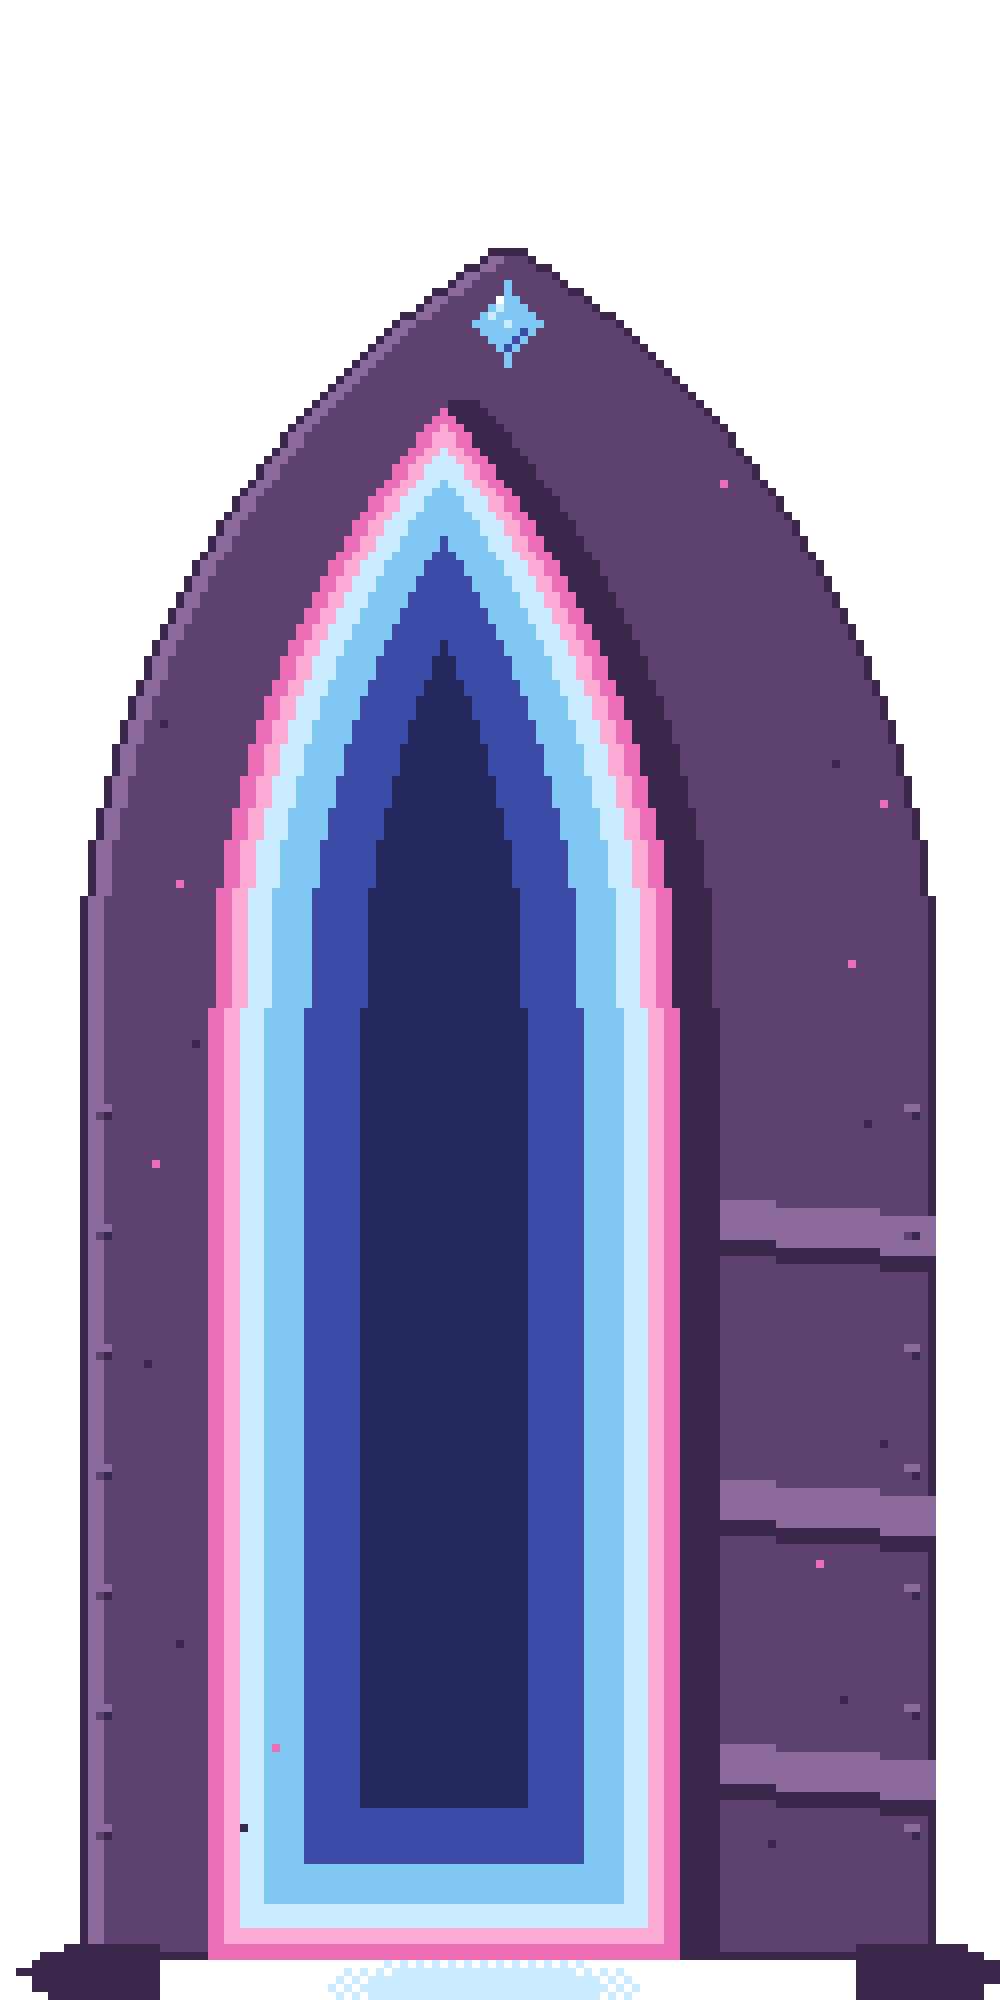
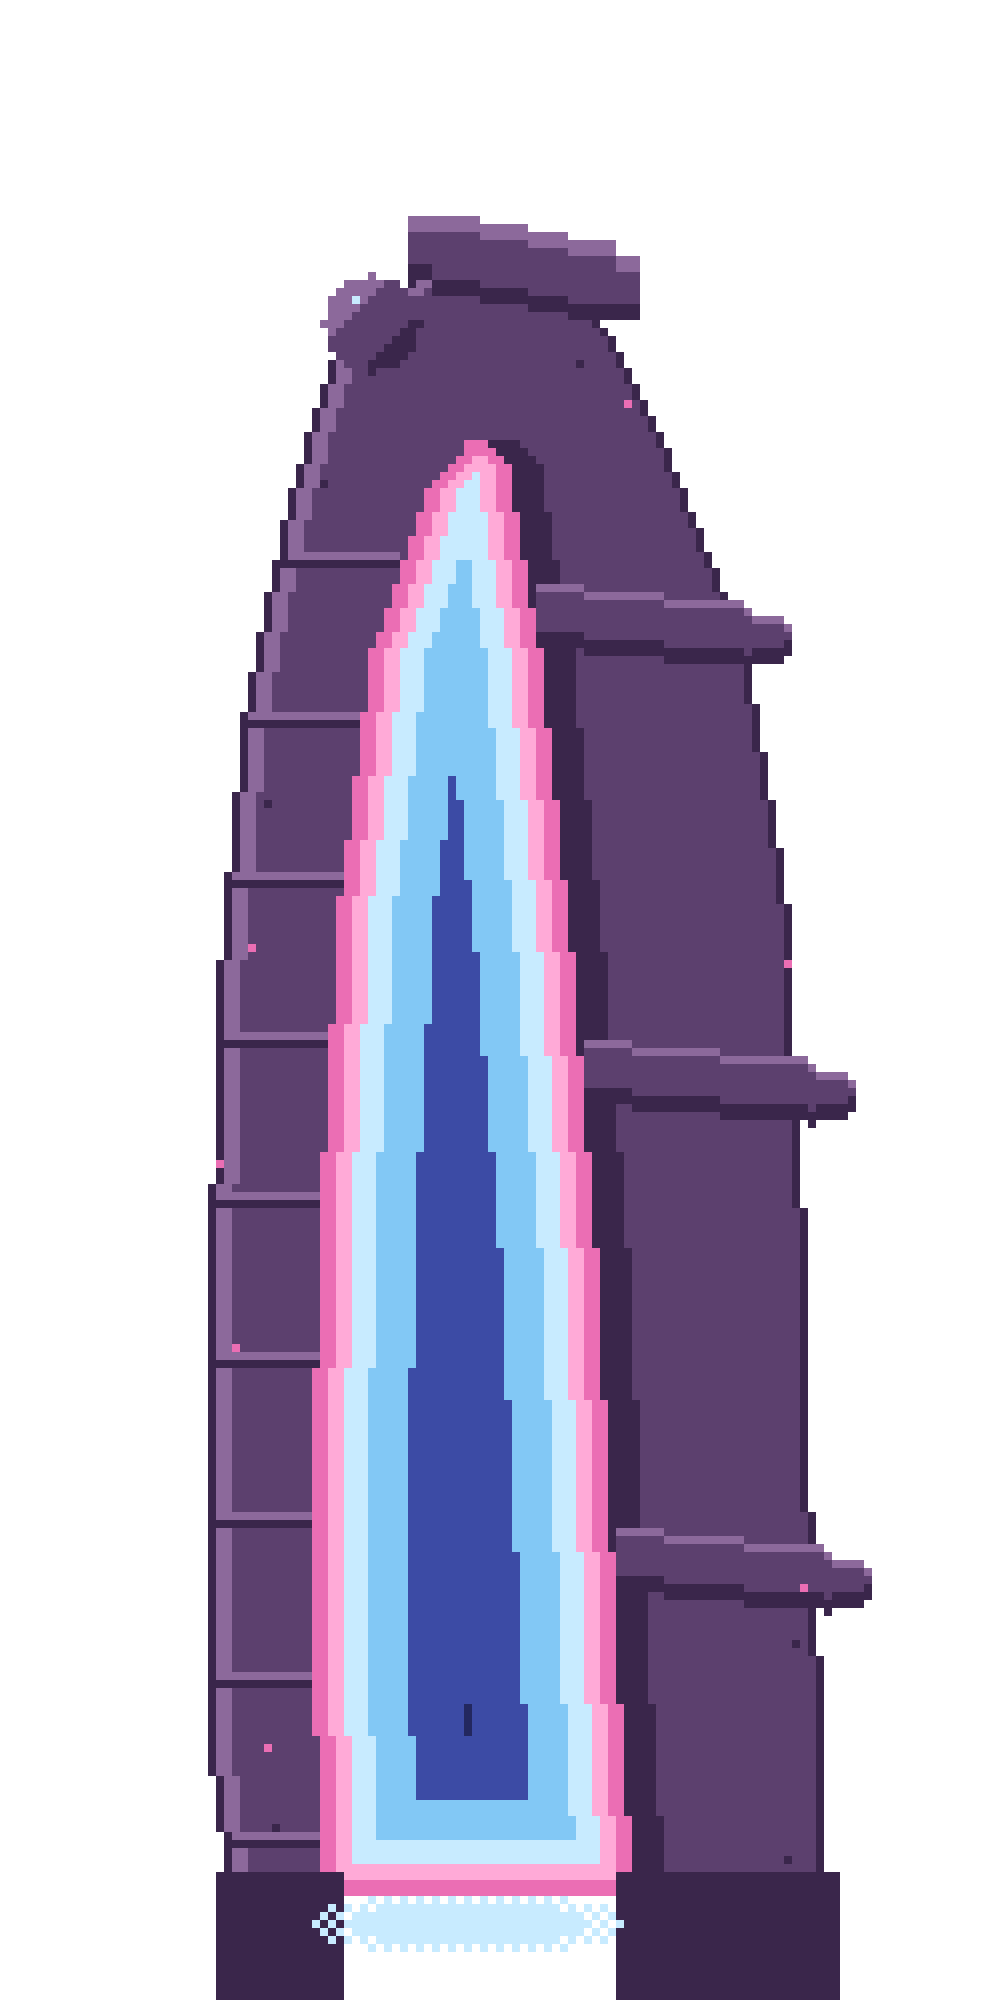
Retrace static portal to match the red drawing
Asymmetric leaning archway: thin near-vertical left pillar, thick
right pillar in 3/4 perspective with three outward-protruding bands,
tilted capstone cylinder + orb at the apex, pointed opening widening
to the floor. Edges traced via piecewise-linear control points.

https://claude.ai/code/session_011J9yW9SkfterbQjTwaT62f

diff --git a/build_static.py b/build_static.py
@@ -1,15 +1,16 @@
 #!/usr/bin/env python3
-"""Phase 1 — static magical stone portal (matches the red overlay).
+"""Phase 1 — static magical stone portal (traced to the red drawing).
 
 125x250 logical RGBA -> 8x NEAREST -> output/portal_static.png (1000x2000).
 
-Shape follows the red drawing: a WIDE, pointed (gothic) arch in 3/4
-perspective. The right pillar is markedly thicker and reads as a
-receding 3D column — wrap-around bands + rivet studs run down the
-sides. Opening is shifted left so the right inner-wall face shows.
-Interior glow uses an edge-distance transform (pink rim hugs the arch,
-dark void elongates down the center). One palette color per pixel, no
-anti-aliasing.
+Shape follows the red sketch: an ASYMMETRIC, leaning archway. The left
+pillar is thin and nearly straight; the right pillar is much thicker and
+reads as a receding 3D column in 3/4 perspective, with three banded
+rings that protrude outward to the right. A tilted capstone cylinder and
+a round orb cap the arch point. The pointed opening widens slightly down
+to the floor. Interior glow uses an edge-distance transform (pink rim
+hugs the arch, dark void elongates down the center). One palette color
+per pixel, no anti-aliasing.
 """
 import os, math
 from collections import deque
@@ -42,75 +43,69 @@ def get(x, y):
         return PX[x, y]
     return (0, 0, 0, 0)
 
-# ── Pointed-arch geometry (WIDE, gothic) ──────────────
-O_LEFT, O_RIGHT     = 10, 116        # outer span (wide — fills the frame)
-O_SPRING, O_BASE    = 126, 244       # pillars run straight below the spring
-O_R                 = 113            # arc radius → pointiness
-O_SPAN              = O_RIGHT - O_LEFT
+# ── Traced edges (x, y), top→bottom; piecewise-linear ──
+# Left outer (thin pillar, leans in then near-vertical):
+LO = [(53,33),(48,38),(42,44),(36.5,62),(31,88),(28,119),
+      (26.7,156),(26,194),(27,222),(29,236)]
+# Left inner (left side of the opening):
+LI = [(58,55),(53,61),(46,81),(42,112),(39.6,150),(38.5,188),(39,216),(40,236)]
+# Right inner (right side of the opening):
+RI = [(60,55),(63,58),(67,81),(71,119),(74,156),(76,194),(77.5,222),(79,236)]
+# Right outer (thick pillar, sweeps out, leans right):
+RO = [(64,33),(71,34.5),(81,53),(92,81),(97,112),(99,150),
+      (100,188),(102,225),(102,236)]
 
-def outer_bounds(y):
-    if y > O_BASE:
+def edge(pts, y):
+    if y < pts[0][1] or y > pts[-1][1]:
         return None
-    if y >= O_SPRING:
-        return (O_LEFT, O_RIGHT)
-    dy = y - O_SPRING                 # negative above the spring
-    disc = O_R * O_R - dy * dy
-    if disc < 0:
-        return None
-    s = math.sqrt(disc)
-    lx = O_LEFT + O_R - s             # left arc (center at right spring + R)
-    rx = O_RIGHT - O_R + s            # right arc
-    if lx >= rx:
-        return None                   # above the apex
-    return (lx, rx)
+    for i in range(len(pts) - 1):
+        x0, y0 = pts[i]
+        x1, y1 = pts[i + 1]
+        if y0 <= y <= y1:
+            if y1 == y0:
+                return x0
+            t = (y - y0) / (y1 - y0)
+            return x0 + t * (x1 - x0)
+    return None
 
-# Inner opening = outer shrunk by stone thickness. Right thickness >>
-# left → opening shifted left, right pillar thick (3/4 view).
-T_LEFT, T_RIGHT = 16, 27
-WALL = 5                              # right inner-wall strip (depth face)
-
-def inner_bounds(y):
-    ob = outer_bounds(y)
-    if ob is None:
-        return None
-    il = ob[0] + T_LEFT
-    ir = ob[1] - T_RIGHT
-    if ir - il < 3:
-        return None
-    return (il, ir)
-
-def opening_span(y):
-    ib = inner_bounds(y)
-    if ib is None:
-        return None
-    il = int(math.ceil(ib[0]))
-    ir = int(math.floor(ib[1]))
-    if ir - il < 3:
-        return None
-    return il, ir - WALL, ir          # portal [il, pr], wall (pr, ir]
+CROWN_TOP = 33
+WALL = 4                              # right inner-wall reveal (depth face)
 
 # ── Stone front face + opening + right inner wall ─────
 for y in range(H):
-    ob = outer_bounds(y)
-    if ob is None:
+    lo = edge(LO, y)
+    ro = edge(RO, y)
+    if lo is None or ro is None:
         continue
-    ol, orr = int(math.floor(ob[0])), int(math.ceil(ob[1]))
-    sp = opening_span(y)
+    ol, orr = int(math.floor(lo)), int(math.ceil(ro))
+    li = edge(LI, y)
+    ri = edge(RI, y)
+    if li is None or ri is None:
+        for x in range(ol, orr + 1):     # solid arch crown / sill
+            put(x, y, PURPLE)
+        continue
+    ilo = int(math.ceil(li))
+    iro = int(math.floor(ri))
     for x in range(ol, orr + 1):
-        if sp and sp[0] <= x <= sp[2]:
-            if x > sp[1]:
-                put(x, y, DEEP_PURPLE)        # receding inner wall
-        else:
-            put(x, y, PURPLE)                 # stone front face
+        if x < ilo:
+            put(x, y, PURPLE)            # left wall (front face)
+        elif x > iro:
+            if x <= iro + WALL:
+                put(x, y, DEEP_PURPLE)   # receding inner-wall reveal
+            else:
+                put(x, y, PURPLE)        # right wall (front face)
+        # opening (ilo..iro) left for the glow pass
 
 # ── Interior glow — edge-distance transform ───────────
 mask = [[False] * W for _ in range(H)]
 for y in range(H):
-    sp = opening_span(y)
-    if sp is None:
+    li = edge(LI, y)
+    ri = edge(RI, y)
+    if li is None or ri is None:
         continue
-    for x in range(sp[0], sp[1] + 1):
-        mask[y][x] = True
+    for x in range(int(math.ceil(li)), int(math.floor(ri)) + 1):
+        if 0 <= x < W:
+            mask[y][x] = True
 
 INF = 10 ** 9
 dist = [[INF] * W for _ in range(H)]
@@ -154,14 +149,14 @@ for (x, y) in stone:
             put(x, y, DEEP_PURPLE)
             break
 
-# ── LAVENDER highlight on the lit (left) edge ─────────
+# ── LAVENDER highlight on the lit (left) outer edge ───
 for y in range(H):
-    ob = outer_bounds(y)
-    if ob is None:
+    lo = edge(LO, y)
+    if lo is None:
         continue
-    ol = int(math.floor(ob[0]))
+    ol = int(math.floor(lo))
     run = 0
-    for x in range(ol, ol + 10):
+    for x in range(ol, ol + 12):
         if get(x, y)[:3] == PURPLE:
             put(x, y, LAVENDER)
             run += 1
@@ -170,76 +165,98 @@ for y in range(H):
         elif run:
             break
 
-# ── Wrap-around bands on the right pillar (cylinder) ──
-def draw_band(by):
-    ob = outer_bounds(by)
-    ib = inner_bounds(by)
-    if ob is None or ib is None:
+# ── Banded rings on the thick right pillar (protrude) ─
+def draw_band(cy):
+    ri = edge(RI, cy)
+    ro = edge(RO, cy)
+    if ri is None or ro is None:
         return
-    rs = int(math.ceil(ib[1])) + 1
-    re = int(math.ceil(ob[1]))
-    width = max(1, re - rs)
-    for i, x in enumerate(range(rs, re + 1)):
-        drop = int(round((i / width) * 2))     # far side droops (cylinder)
-        for yy in range(by + drop, by + 5 + drop):
-            if get(x, yy)[3] != 0:
-                put(x, yy, LAVENDER)
-        put(x, by + 5 + drop, DEEP_PURPLE)
-        put(x, by + 6 + drop, DEEP_PURPLE)
-        if get(x, by + drop)[3] != 0:
-            put(x, by + drop, LAVENDER)
-for by in (150, 185, 218):
-    draw_band(by)
+    sx = int(math.floor(ri)) + 1
+    ex = int(math.ceil(ro)) + 7          # stick out past the outer edge
+    span = max(1, ex - sx)
+    half = 3
+    for x in range(sx, ex + 1):
+        f = (x - sx) / span
+        drop = int(round(f * 3))         # tilt down toward the far end
+        # rounded ends
+        h = half if f < 0.85 else half - 1
+        if x == ex:
+            h = half - 2
+        top = cy - h + drop
+        bot = cy + h + drop
+        for yy in range(top, bot + 1):
+            base = get(x, yy)
+            stick_out = x > int(math.ceil(ro))
+            if base[3] != 0 or stick_out:
+                put(x, yy, PURPLE)
+        put(x, top, LAVENDER)
+        put(x, bot, DEEP_PURPLE)
+        put(x, bot + 1, DEEP_PURPLE)
+for cy in (76, 133, 194):
+    draw_band(cy)
 
-# ── Rivet studs down both outer edges ─────────────────
-def draw_rivets():
-    for ry in range(138, 236, 15):
-        ob = outer_bounds(ry)
-        if ob is None:
+# ── Faint banding ticks down the left pillar edge ─────
+for ty in range(70, 232, 20):
+    lo = edge(LO, ty)
+    li = edge(LI, ty)
+    if lo is None or li is None:
+        continue
+    ol = int(math.floor(lo))
+    il = int(math.ceil(li))
+    for x in range(ol + 1, il):
+        if get(x, ty)[:3] in (PURPLE, LAVENDER):
+            put(x, ty, DEEP_PURPLE)
+        if get(x, ty - 1)[:3] == PURPLE:
+            put(x, ty - 1, LAVENDER)
+
+# ── Capstone cylinder + orb, seated on the arch point ─
+def draw_capstone():
+    x0, y0 = 51, 30
+    x1, y1 = 79, 35                       # tilted: right end lower
+    span = x1 - x0
+    for x in range(x0, x1 + 1):
+        f = (x - x0) / span
+        cyf = y0 + f * (y1 - y0)
+        h = 4 if 0.08 < f < 0.92 else 3
+        cy = int(round(cyf))
+        for yy in range(cy - h, cy + h + 1):
+            put(x, yy, PURPLE)
+        put(x, cy - h, LAVENDER)
+        put(x, cy - h + 1, LAVENDER)
+        put(x, cy + h, DEEP_PURPLE)
+        put(x, cy + h + 1, DEEP_PURPLE)
+    # round orb tucked at the upper-left of the capstone
+    ox, oy, orad = 46, 40, 6
+    for dy in range(-orad, orad + 1):
+        for dx in range(-orad, orad + 1):
+            if dx * dx + dy * dy <= orad * orad:
+                put(ox + dx, oy + dy, PURPLE)
+    for dy in range(-orad, orad + 1):
+        for dx in range(-orad, orad + 1):
+            r2 = dx * dx + dy * dy
+            if r2 <= orad * orad and dx + dy < -3:
+                put(ox + dx, oy + dy, LAVENDER)
+            elif r2 <= orad * orad and dx + dy > 4:
+                put(ox + dx, oy + dy, DEEP_PURPLE)
+    put(ox - 2, oy - 3, PALE_CYAN)
+draw_capstone()
+
+# ── Pillar feet — small mossy stone base ──────────────
+def draw_feet():
+    for (pts_o, pts_i) in ((LO, LI), (RI, RO)):
+        eo = edge(pts_o, 235)
+        ei = edge(pts_i, 235)
+        if eo is None or ei is None:
             continue
-        lx = int(math.floor(ob[0]))
-        rx = int(math.ceil(ob[1]))
-        # left edge rivet
-        put(lx + 2, ry, LAVENDER); put(lx + 3, ry, LAVENDER)
-        put(lx + 2, ry + 1, PURPLE); put(lx + 3, ry + 1, DEEP_PURPLE)
-        # right edge rivet
-        put(rx - 3, ry, LAVENDER); put(rx - 2, ry, LAVENDER)
-        put(rx - 3, ry + 1, PURPLE); put(rx - 2, ry + 1, DEEP_PURPLE)
-draw_rivets()
+        a, b = sorted((int(round(eo)), int(round(ei))))
+        for yy in range(234, H):
+            for x in range(a - 2, b + 3):
+                put(x, yy, DEEP_PURPLE)
+draw_feet()
 
-# ── Keystone crystal — seated at the arch point ───────
-def draw_keystone():
-    kx, ky = O_LEFT + O_SPAN // 2, 40
-    for dy in range(-5, 6):
-        for dx in range(-4, 5):
-            if abs(dx) / 4.0 + abs(dy) / 5.0 <= 1.0:
-                put(kx + dx, ky + dy, CYAN)
-    put(kx - 1, ky - 3, WHITE); put(kx - 2, ky - 1, PALE_CYAN); put(kx - 1, ky - 2, PALE_CYAN)
-    put(kx, ky, PALE_CYAN)
-    put(kx + 1, ky + 2, DEEP_BLUE); put(kx, ky + 3, DEEP_BLUE); put(kx + 2, ky + 1, DEEP_BLUE)
-draw_keystone()
-
-# ── Base flare — mossy stone foot (irregular) ─────────
-def draw_base_flare():
-    ob = outer_bounds(O_BASE)
-    ol, orr = int(math.floor(ob[0])), int(math.ceil(ob[1]))
-    profile_l = [2, 4, 6, 7, 6, 5, 4]
-    profile_r = [3, 6, 8, 9, 8, 6, 5]
-    for i in range(7):
-        yy = O_BASE - 1 + i
-        if yy >= H:
-            break
-        extl = profile_l[i] + (1 if (i % 2) else 0)
-        extr = profile_r[i] + (1 if (i % 3 == 0) else 0)
-        for x in range(ol - extl, ol + 10):
-            put(x, yy, DEEP_PURPLE)
-        for x in range(orr - 9, orr + extr + 1):
-            put(x, yy, DEEP_PURPLE)
-draw_base_flare()
-
-# ── Ground light spill ────────────────────────────────
+# ── Ground light spill below the opening ──────────────
 def draw_ground_spill():
-    cx, cy = (O_LEFT + O_RIGHT) // 2 - 3, O_BASE + 4
+    cx, cy = 58, 240
     rw, rh = 20, 4
     for dy in range(-rh, rh + 1):
         for dx in range(-rw, rw + 1):
@@ -251,21 +268,17 @@ def draw_ground_spill():
             put(cx + dx, cy + dy, PALE_CYAN)
 draw_ground_spill()
 
-# ── Cracks / overgrowth ───────────────────────────────
-CRACKS = [
-    (20, 90), (24, 130), (18, 170), (22, 205), (28, 60),
-    (104, 95), (108, 140), (110, 180), (105, 212), (100, 66),
-    (40, 46), (86, 48), (30, 228), (96, 230),
-]
-MOSS = [
-    (22, 110), (26, 150), (106, 120), (102, 195), (90, 60),
-    (34, 218), (110, 100), (19, 145),
-]
+# ── Cracks / overgrowth (hand-placed) ─────────────────
+CRACKS = [(33,100),(30,150),(28,190),(31,210),(40,60),
+          (96,95),(99,140),(101,175),(99,205),(72,45),
+          (35,70),(85,55),(34,228),(98,232)]
+MOSS = [(31,118),(29,168),(98,120),(100,198),(78,50),
+        (33,218),(101,100),(27,145)]
 for (x, y) in CRACKS:
-    if get(x, y)[3] != 0:
+    if get(x, y)[3] != 0 and get(x, y)[:3] in (PURPLE, LAVENDER):
         put(x, y, DEEP_PURPLE)
 for (x, y) in MOSS:
-    if get(x, y)[3] != 0:
+    if get(x, y)[3] != 0 and get(x, y)[:3] in (PURPLE, LAVENDER, DEEP_PURPLE):
         put(x, y, HOT_PINK)
 
 # ── Upscale + save ────────────────────────────────────
